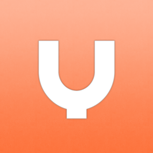
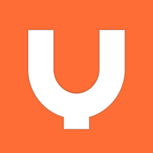
Square image with channel disbaled  style 02

diff --git a/less/import2/borders.less b/less/import2/borders.less
@@ -50,9 +50,8 @@
 
 .border-square-channel-disabled-style {
 
-	-webkit-box-shadow: 0 0 0px 1px rgba(0, 0, 0, 0.3), inset 0 0px 10px 0 rgba(0, 0, 0, 0.5);
-	box-shadow: 0 0 0px 1px rgba(0, 0, 0, 0.3), inset 0 0px 10px 0 rgba(0, 0, 0, 0.5);
-
+	-webkit-box-shadow: 0 0 0 1px rgba(0, 0, 0, 0.4), inset 0 1px 0 0 rgba(255, 255, 255, 0.4);
+	box-shadow: 0 0 0 1px rgba(0, 0, 0, 0.4), inset 0 1px 0 0 rgba(255, 255, 255, 0.4);
 }
 
 
